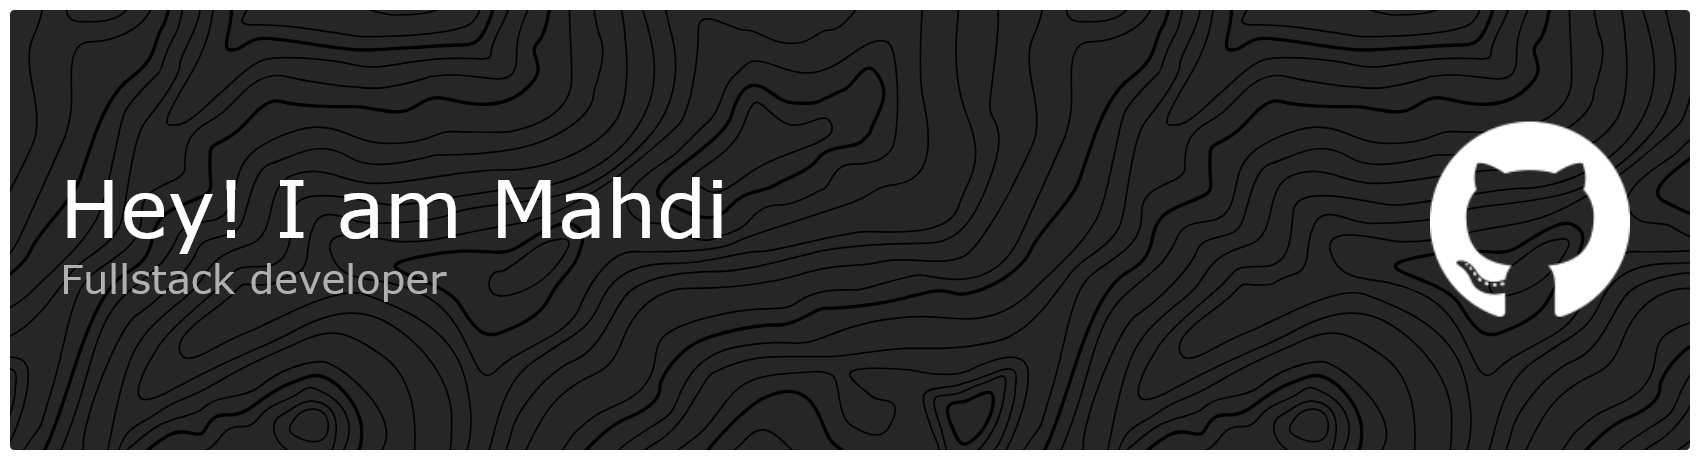
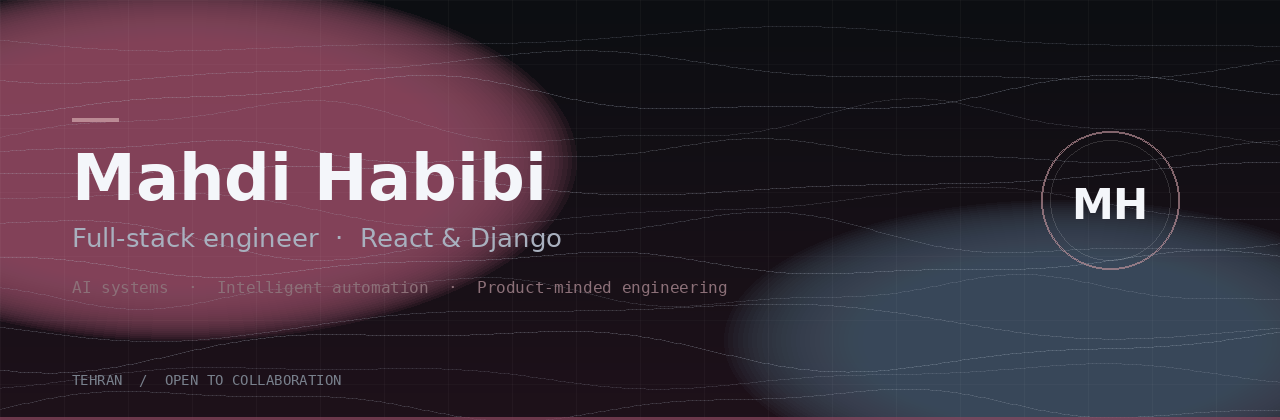
Polish profile README into a professional, cohesive presence
Replace the GPRM template with a curated layout: custom banner, clearer
about copy, grouped stack badges, featured projects with accurate blurbs,
and a unified dark stats theme. Remove clutter like visit counters, random
quotes, and the incorrect third-party trophy embed.

diff --git a/README.md b/README.md
@@ -1,29 +1,114 @@
-![Header](./github-header-banner.png)
-# 💫 About Me:
-🔭 I’m currently working on<br>- Full-stack development at Agrad Web<br>- Designing and developing projects in artificial intelligence, machine learning, and intelligent automation systems<br>👯 I’m looking to collaborate on<br>- AI-driven applications  <br>- Automation tools and intelligent systems  <br>- Full-stack projects with a strong backend or data focus<br>🤝 I’m looking for help with<br>- Professional growth in artificial intelligence, machine learning, and intelligent automation systems <br>- Mentorship, collaboration, or opportunities that provide space to learn, experiment, and move forward in these areas  <br>🌱 I’m currently learning<br>- Advanced topics in artificial intelligence and machine learning  <br>- Computer architecture (Master’s student at Shahid Beheshti University) <br>💬 Ask me about<br>- Full-stack development  <br>- Python and JavaScript  <br>- Teaching programming and project-based learning  <br>⚡ Fun fact<br>- I enjoy teaching as much as coding and believe the best way to learn is by building and sharing 🚀
+<!--
+  Profile README — Mahdi Habibi
+  Clean, intentional, and easy to maintain.
+-->
 
+<p align="center">
+  <img src="./github-header-banner.png" alt="Mahdi Habibi — Full-stack engineer" width="100%" />
+</p>
 
-## 🌐 Socials:
-[![LinkedIn](https://img.shields.io/badge/LinkedIn-%230077B5.svg?logo=linkedin&logoColor=white)](https://linkedin.com/in/mahdi-habibi-developer) [![email](https://img.shields.io/badge/Email-D14836?logo=gmail&logoColor=white)](mailto:info.mahdihabibi@gmail.com) 
+<h1 align="center">Mahdi Habibi</h1>
 
-# 💻 Tech Stack:
-![AssemblyScript](https://img.shields.io/badge/assembly%20script-%23000000.svg?style=for-the-badge&logo=assemblyscript&logoColor=white) ![C](https://img.shields.io/badge/c-%2300599C.svg?style=for-the-badge&logo=c&logoColor=white) ![C#](https://img.shields.io/badge/c%23-%23239120.svg?style=for-the-badge&logo=csharp&logoColor=white) ![C++](https://img.shields.io/badge/c++-%2300599C.svg?style=for-the-badge&logo=c%2B%2B&logoColor=white) ![CSS3](https://img.shields.io/badge/css3-%231572B6.svg?style=for-the-badge&logo=css3&logoColor=white) ![HTML5](https://img.shields.io/badge/html5-%23E34F26.svg?style=for-the-badge&logo=html5&logoColor=white) ![JavaScript](https://img.shields.io/badge/javascript-%23323330.svg?style=for-the-badge&logo=javascript&logoColor=%23F7DF1E) ![PHP](https://img.shields.io/badge/php-%23777BB4.svg?style=for-the-badge&logo=php&logoColor=white) ![Python](https://img.shields.io/badge/python-3670A0?style=for-the-badge&logo=python&logoColor=ffdd54) ![TypeScript](https://img.shields.io/badge/typescript-%23007ACC.svg?style=for-the-badge&logo=typescript&logoColor=white) ![Vercel](https://img.shields.io/badge/vercel-%23000000.svg?style=for-the-badge&logo=vercel&logoColor=white) ![Angular](https://img.shields.io/badge/angular-%23DD0031.svg?style=for-the-badge&logo=angular&logoColor=white) ![Bootstrap](https://img.shields.io/badge/bootstrap-%238511FA.svg?style=for-the-badge&logo=bootstrap&logoColor=white) ![Django](https://img.shields.io/badge/django-%23092E20.svg?style=for-the-badge&logo=django&logoColor=white) ![Express.js](https://img.shields.io/badge/express.js-%23404d59.svg?style=for-the-badge&logo=express&logoColor=%2361DAFB) ![jQuery](https://img.shields.io/badge/jquery-%230769AD.svg?style=for-the-badge&logo=jquery&logoColor=white) ![Laravel](https://img.shields.io/badge/laravel-%23FF2D20.svg?style=for-the-badge&logo=laravel&logoColor=white) ![NPM](https://img.shields.io/badge/NPM-%23CB3837.svg?style=for-the-badge&logo=npm&logoColor=white) ![Next JS](https://img.shields.io/badge/Next-black?style=for-the-badge&logo=next.js&logoColor=white) ![NodeJS](https://img.shields.io/badge/node.js-6DA55F?style=for-the-badge&logo=node.js&logoColor=white) ![React](https://img.shields.io/badge/react-%2320232a.svg?style=for-the-badge&logo=react&logoColor=%2361DAFB) ![React Native](https://img.shields.io/badge/react_native-%2320232a.svg?style=for-the-badge&logo=react&logoColor=%2361DAFB) ![SASS](https://img.shields.io/badge/SASS-hotpink.svg?style=for-the-badge&logo=SASS&logoColor=white) ![TailwindCSS](https://img.shields.io/badge/tailwindcss-%2338B2AC.svg?style=for-the-badge&logo=tailwind-css&logoColor=white) ![WordPress](https://img.shields.io/badge/WordPress-%23117AC9.svg?style=for-the-badge&logo=WordPress&logoColor=white) ![MongoDB](https://img.shields.io/badge/MongoDB-%234ea94b.svg?style=for-the-badge&logo=mongodb&logoColor=white) ![MySQL](https://img.shields.io/badge/mysql-4479A1.svg?style=for-the-badge&logo=mysql&logoColor=white) ![Postgres](https://img.shields.io/badge/postgres-%23316192.svg?style=for-the-badge&logo=postgresql&logoColor=white) ![SQLite](https://img.shields.io/badge/sqlite-%2307405e.svg?style=for-the-badge&logo=sqlite&logoColor=white) ![Adobe Lightroom](https://img.shields.io/badge/Adobe%20Lightroom-31A8FF.svg?style=for-the-badge&logo=Adobe%20Lightroom&logoColor=white) ![Adobe Photoshop](https://img.shields.io/badge/adobe%20photoshop-%2331A8FF.svg?style=for-the-badge&logo=adobe%20photoshop&logoColor=white) ![Adobe XD](https://img.shields.io/badge/Adobe%20XD-470137?style=for-the-badge&logo=Adobe%20XD&logoColor=#FF61F6) ![Figma](https://img.shields.io/badge/figma-%23F24E1E.svg?style=for-the-badge&logo=figma&logoColor=white) ![Matplotlib](https://img.shields.io/badge/Matplotlib-%23ffffff.svg?style=for-the-badge&logo=Matplotlib&logoColor=black) ![NumPy](https://img.shields.io/badge/numpy-%23013243.svg?style=for-the-badge&logo=numpy&logoColor=white) ![Pandas](https://img.shields.io/badge/pandas-%23150458.svg?style=for-the-badge&logo=pandas&logoColor=white) ![Scipy](https://img.shields.io/badge/SciPy-%230C55A5.svg?style=for-the-badge&logo=scipy&logoColor=%white) ![scikit-learn](https://img.shields.io/badge/scikit--learn-%23F7931E.svg?style=for-the-badge&logo=scikit-learn&logoColor=white) ![Git](https://img.shields.io/badge/git-%23F05033.svg?style=for-the-badge&logo=git&logoColor=white) ![GitHub](https://img.shields.io/badge/github-%23121011.svg?style=for-the-badge&logo=github&logoColor=white) ![Docker](https://img.shields.io/badge/docker-%230db7ed.svg?style=for-the-badge&logo=docker&logoColor=white) ![Notion](https://img.shields.io/badge/Notion-%23000000.svg?style=for-the-badge&logo=notion&logoColor=white) ![Power Bi](https://img.shields.io/badge/power_bi-F2C811?style=for-the-badge&logo=powerbi&logoColor=black) ![Prettier](https://img.shields.io/badge/prettier-%23F7B93E.svg?style=for-the-badge&logo=prettier&logoColor=black) ![Raspberry Pi](https://img.shields.io/badge/-Raspberry_Pi-C51A4A?style=for-the-badge&logo=Raspberry-Pi) ![SonarLint](https://img.shields.io/badge/SonarLint-CB2029?style=for-the-badge&logo=SONARLINT&logoColor=white) ![Trello](https://img.shields.io/badge/Trello-%23026AA7.svg?style=for-the-badge&logo=Trello&logoColor=white)
-# 📊 GitHub Stats:
-![](https://github-readme-stats.vercel.app/api?username=Mahdi-Habibi&theme=shadow_blue&hide_border=false&include_all_commits=true&count_private=true)<br/>
-![](https://nirzak-streak-stats.vercel.app/?user=Mahdi-Habibi&theme=shadow_blue&hide_border=false)<br/>
-![](https://github-readme-stats.vercel.app/api/top-langs/?username=Mahdi-Habibi&theme=shadow_blue&hide_border=false&include_all_commits=true&count_private=true&layout=compact)
+<p align="center">
+  <strong>Full-stack engineer</strong> building thoughtful web products with <strong>React</strong> &amp; <strong>Django</strong>.<br/>
+  Exploring AI systems, intelligent automation, and clean architecture.
+</p>
 
-## 🏆 GitHub Trophies
-![](https://github-profile-trophy.vercel.app/?username=Mahdi-Habibi&theme=city_lights&no-frame=false&no-bg=false&margin-w=4)
-[![trophy](https://github-profile-trophy.vercel.app/?username=ryo-ma&theme=onedark)](https://github.com/ryo-ma/github-profile-trophy)
-
-### ✍ Random Dev Quote
-![](https://quotes-github-readme.vercel.app/api?type=horizontal&theme=tokyonight)
-
-### 🔝 Top Contributed Repo
-![](https://github-contributor-stats.vercel.app/api?username=Mahdi-Habibi&limit=5&theme=shadow_blue&combine_all_yearly_contributions=true)
+<p align="center">
+  <a href="https://mahdi-habibi.github.io/portfolio/"><img src="https://img.shields.io/badge/Portfolio-0c0e12?style=flat-square&logo=vercel&logoColor=c4969e" alt="Portfolio" /></a>
+  <a href="https://linkedin.com/in/mahdi-habibi-developer"><img src="https://img.shields.io/badge/LinkedIn-0c0e12?style=flat-square&logo=linkedin&logoColor=c4969e" alt="LinkedIn" /></a>
+  <a href="mailto:info.mahdihabibi@gmail.com"><img src="https://img.shields.io/badge/Email-0c0e12?style=flat-square&logo=gmail&logoColor=c4969e" alt="Email" /></a>
+  <img src="https://img.shields.io/badge/Open_to_work-1a1418?style=flat-square&labelColor=0c0e12&color=8b4a5c" alt="Open to work" />
+</p>
 
 ---
-[![](https://visitcount.itsvg.in/api?id=Mahdi-Habibi&icon=0&color=5)](https://visitcount.itsvg.in)
 
-<!-- Proudly created with GPRM ( https://gprm.itsvg.in ) -->
+### About
+
+I design and ship full-stack applications end to end — from API design and data models to interfaces people actually enjoy using. Currently focused on AI-assisted products and automation, while deepening computer architecture as a Master's student at **Shahid Beheshti University**.
+
+**What I care about**
+- Clear systems over clever ones
+- Interfaces that feel calm and intentional
+- Shipping work that holds up in production
+
+**Open to**
+- Collaboration on AI-driven apps, automation tools, and serious full-stack builds
+- Mentorship, pairing, and product-minded engineering conversations
+
+---
+
+### Stack
+
+<details open>
+<summary><strong>Languages & frameworks</strong></summary>
+<br/>
+
+![TypeScript](https://img.shields.io/badge/TypeScript-0c0e12?style=flat-square&logo=typescript&logoColor=3178C6)
+![JavaScript](https://img.shields.io/badge/JavaScript-0c0e12?style=flat-square&logo=javascript&logoColor=F7DF1E)
+![Python](https://img.shields.io/badge/Python-0c0e12?style=flat-square&logo=python&logoColor=3776AB)
+![C++](https://img.shields.io/badge/C++-0c0e12?style=flat-square&logo=cplusplus&logoColor=00599C)
+![React](https://img.shields.io/badge/React-0c0e12?style=flat-square&logo=react&logoColor=61DAFB)
+![Next.js](https://img.shields.io/badge/Next.js-0c0e12?style=flat-square&logo=nextdotjs&logoColor=white)
+![Django](https://img.shields.io/badge/Django-0c0e12?style=flat-square&logo=django&logoColor=092E20)
+![NestJS](https://img.shields.io/badge/NestJS-0c0e12?style=flat-square&logo=nestjs&logoColor=E0234E)
+![Node.js](https://img.shields.io/badge/Node.js-0c0e12?style=flat-square&logo=nodedotjs&logoColor=339933)
+![Express](https://img.shields.io/badge/Express-0c0e12?style=flat-square&logo=express&logoColor=white)
+![Tailwind CSS](https://img.shields.io/badge/Tailwind-0c0e12?style=flat-square&logo=tailwindcss&logoColor=38B2AC)
+
+</details>
+
+<details>
+<summary><strong>Data, tooling & design</strong></summary>
+<br/>
+
+![PostgreSQL](https://img.shields.io/badge/PostgreSQL-0c0e12?style=flat-square&logo=postgresql&logoColor=4169E1)
+![MongoDB](https://img.shields.io/badge/MongoDB-0c0e12?style=flat-square&logo=mongodb&logoColor=47A248)
+![MySQL](https://img.shields.io/badge/MySQL-0c0e12?style=flat-square&logo=mysql&logoColor=4479A1)
+![Docker](https://img.shields.io/badge/Docker-0c0e12?style=flat-square&logo=docker&logoColor=2496ED)
+![Git](https://img.shields.io/badge/Git-0c0e12?style=flat-square&logo=git&logoColor=F05032)
+![Vercel](https://img.shields.io/badge/Vercel-0c0e12?style=flat-square&logo=vercel&logoColor=white)
+![NumPy](https://img.shields.io/badge/NumPy-0c0e12?style=flat-square&logo=numpy&logoColor=013243)
+![Pandas](https://img.shields.io/badge/Pandas-0c0e12?style=flat-square&logo=pandas&logoColor=150458)
+![scikit-learn](https://img.shields.io/badge/scikit--learn-0c0e12?style=flat-square&logo=scikitlearn&logoColor=F7931E)
+![Figma](https://img.shields.io/badge/Figma-0c0e12?style=flat-square&logo=figma&logoColor=F24E1E)
+
+</details>
+
+---
+
+### Selected work
+
+| Project | Focus | Links |
+| :--- | :--- | :--- |
+| **Pathwise** | Adaptive learning platform — Next.js, NestJS, Prisma | [Repo](https://github.com/Mahdi-Habibi/pathwise) · [Live](https://mahdi-habibi.github.io/pathwise/) |
+| **Pocket Crypto** | Telegram bot for live currency & crypto markets | [Repo](https://github.com/Mahdi-Habibi/pocket_crypto) · [Live](https://pocketcrypto.vercel.app) |
+| **Task Platform** | Real-time task management with JWT & Socket.IO | [Repo](https://github.com/Mahdi-Habibi/task-management-platform) |
+| **Smart Home IoT** | MQTT dashboard for sensors & device control | [Repo](https://github.com/Mahdi-Habibi/smart-home-iot-dashboard) |
+| **Portfolio** | Personal site — React & Django specialist | [Repo](https://github.com/Mahdi-Habibi/portfolio) · [Live](https://mahdi-habibi.github.io/portfolio/) |
+
+---
+
+### GitHub
+
+<p align="center">
+  <img height="165" src="https://github-readme-stats.vercel.app/api?username=Mahdi-Habibi&show_icons=true&theme=transparent&hide_border=true&include_all_commits=true&count_private=true&title_color=c4969e&icon_color=c4969e&text_color=c9cdd4&bg_color=00000000" alt="GitHub stats" />
+  <img height="165" src="https://github-readme-stats.vercel.app/api/top-langs/?username=Mahdi-Habibi&layout=compact&theme=transparent&hide_border=true&include_all_commits=true&count_private=true&title_color=c4969e&text_color=c9cdd4&bg_color=00000000" alt="Top languages" />
+</p>
+
+<p align="center">
+  <img src="https://streak-stats.demolab.com?user=Mahdi-Habibi&theme=transparent&hide_border=true&ring=c4969e&fire=c4969e&currStreakLabel=c4969e&sideLabels=c9cdd4&sideNums=c9cdd4&dates=8a9099&background=00000000" alt="GitHub streak" />
+</p>
+
+<p align="center">
+  <img src="https://github-profile-trophy.vercel.app/?username=Mahdi-Habibi&theme=onestar&no-frame=true&no-bg=true&column=7&margin-w=8&margin-h=8" alt="GitHub trophies" />
+</p>
+
+---
+
+<p align="center">
+  <sub>
+    Building in public · Based in Tehran ·
+    <a href="mailto:info.mahdihabibi@gmail.com">Say hello</a>
+  </sub>
+</p>
